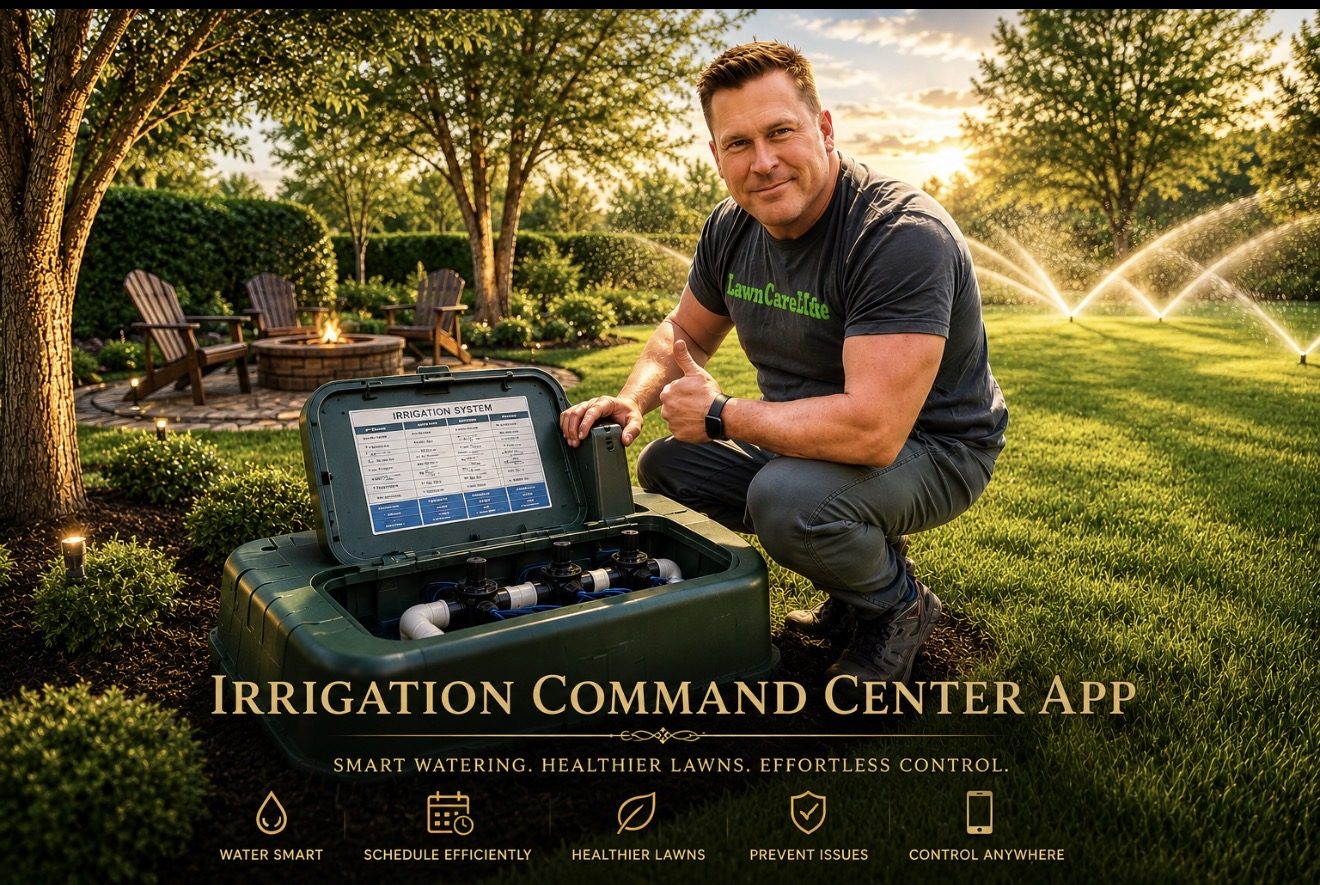
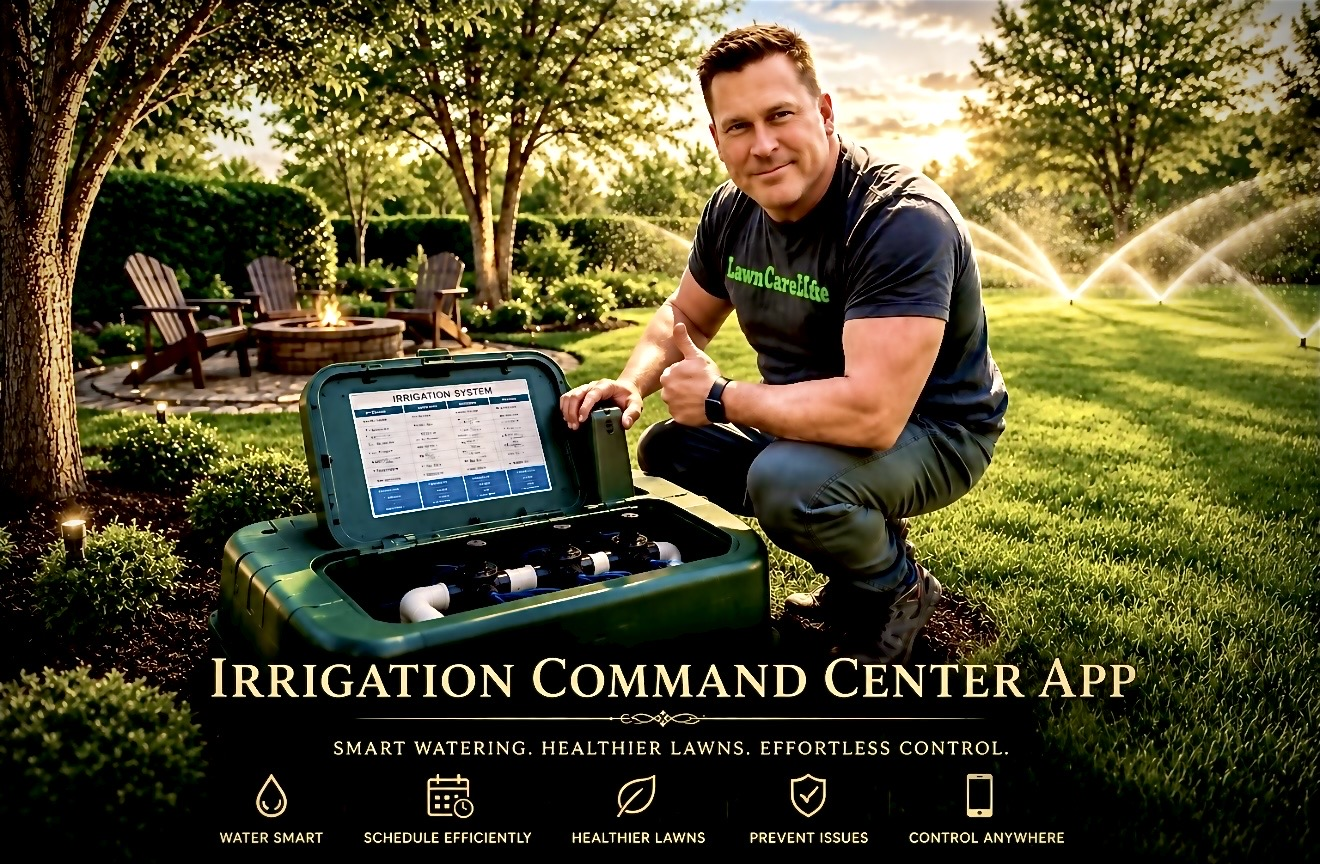
Heroes: swap in Jeff's reworked, more-consistent images
Updated Home, Weather, Irrigation, Yard heroes + yard aerial with Jeff's
re-graded versions (brighter, more uniform golden-hour tone across the
set). Adjusted Irrigation (1320/864) and Yard (1320/851) aspect ratios to
match the new images so titles show fully. Climate unchanged.

diff --git a/index.html b/index.html
@@ -199,8 +199,8 @@ html,body{
 .sec-hero-climate img{object-fit:cover;object-position:center center}
 /* Per-hero aspect = each image's true ratio so the baked-in gold titles never crop */
 .sec-hero-weather{aspect-ratio:1320/864;height:auto;max-height:460px}
-.sec-hero-irr{aspect-ratio:1320/885;height:auto;max-height:460px}
-.sec-hero-yard{aspect-ratio:1320/963;height:auto;max-height:460px}
+.sec-hero-irr{aspect-ratio:1320/864;height:auto;max-height:460px}
+.sec-hero-yard{aspect-ratio:1320/851;height:auto;max-height:460px}
 .sec-hero-climate{aspect-ratio:1320/931;height:auto;max-height:460px;background:linear-gradient(160deg,#0a0610 0%,#1a0a00 50%,#0a0610 100%)}
 /* ── HERO MASTER GRADE — REUSABLE MODULE ───────────────────────────────────
    One cinematic golden-hour grade for EVERY hero. applyHeroGrades() (JS) tags
